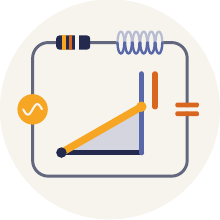
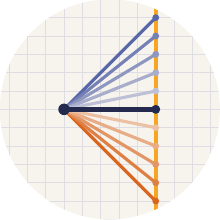
витрина: f13e200 tex: комплексный метод — обложка с веером импедансов, A_m не на оси

Changed region(s): [[0.0, 0.0, 1.0, 1.0]]

diff --git a/data/notes/tex/styles/cvetnoy.md b/data/notes/tex/styles/cvetnoy.md
@@ -342,7 +342,7 @@ pl/.style={circle,fill=white,fill opacity=0.85,text opacity=1,inner sep=0.6pt},
 | Малые колебания, разбор серии 2 | «лёд и брусника»: лёд `#F1F5F9`, иней `#BFD7EA`, брусника `#A4243B`, зимнее небо `#4F7CAC`, полярная ночь `#1B2A41` |
 | Вязкость и упругость, эксперимент 1 по физике | «мята и шоколад»: мятный туман `#F2F7F4`, мята `#A8DCC8`, зелёная мята `#3FA38A`, молочный шоколад `#8A5A44`, горький шоколад `#3E2723`; на обложке колеблющаяся линейка символически — семь положений веером из одной точки, без стола и зажима |
 | Электромагнитные колебания, конспект | «мандарин и ежевика»: туман `#F6F1EC`, светлый мандарин `#FFB27A`, мандарин `#F26B1D`, сирень `#8E5CC2`, ежевика `#3B1F5C`; на обложке контур с полями: обкладки мандарином, их поле светлым мандарином, катушка и её поле сиренью, провода ежевикой |
-| Комплексный метод, решение задач ДЗ 3 по переменному току | «голубика и облепиха»: молоко `#F7F4EE`, облепиха `#F6A623`, тёмная облепиха `#D9661F`, голубика `#5867A8`, ночная голубика `#232A4D`; на обложке контур, нарисованный деталями — источник облепихой, резистор ночной голубикой, катушка голубикой, конденсатор тёмной облепихой, — и внутри треугольник импеданса, каждая сторона цветом своей детали; в тексте тёмная облепиха — номера задач, голубика — «Ответ». До 15.10.2026 документ назывался «Цепи переменного тока», и на обложке были вращающиеся векторы с синусоидами; один треугольник без цепи снят как «слишком символичный» |
+| Комплексный метод, решение задач ДЗ 3 по переменному току | «голубика и облепиха»: молоко `#F7F4EE`, облепиха `#F6A623`, тёмная облепиха `#D9661F`, голубика `#5867A8`, ночная голубика `#232A4D`; на обложке импеданс последовательной RLC на комплексной плоскости — веер векторов Z из начала координат к прямой Re Z = R (облепихой) по светлой клетке: индуктивные голубикой, ёмкостные тёмной облепихой, насыщеннее к краям, резонансный Z = R ночной голубикой; в тексте тёмная облепиха — номера задач, голубика — «Ответ». 15.10.2026 сняты три обложки: вращающиеся векторы с синусоидами (пока документ назывался «Цепи переменного тока»), один треугольник импеданса («слишком символично») и цепь деталями вокруг треугольника (обложка должна быть про комплексные числа и импеданс) |
 
 Разбор урока рисует ту же обложку, что урок, но в своей палитре: парой
 к уроку и не сливается с ним.
